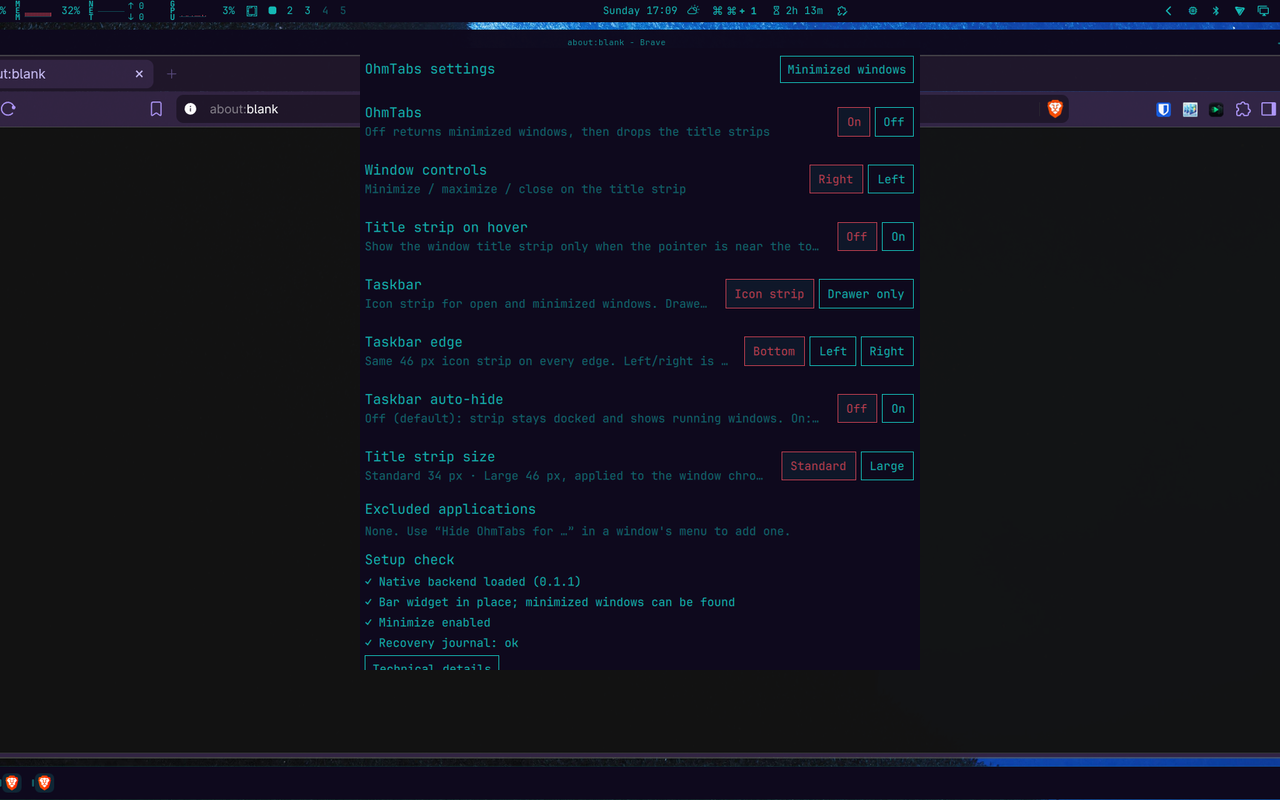
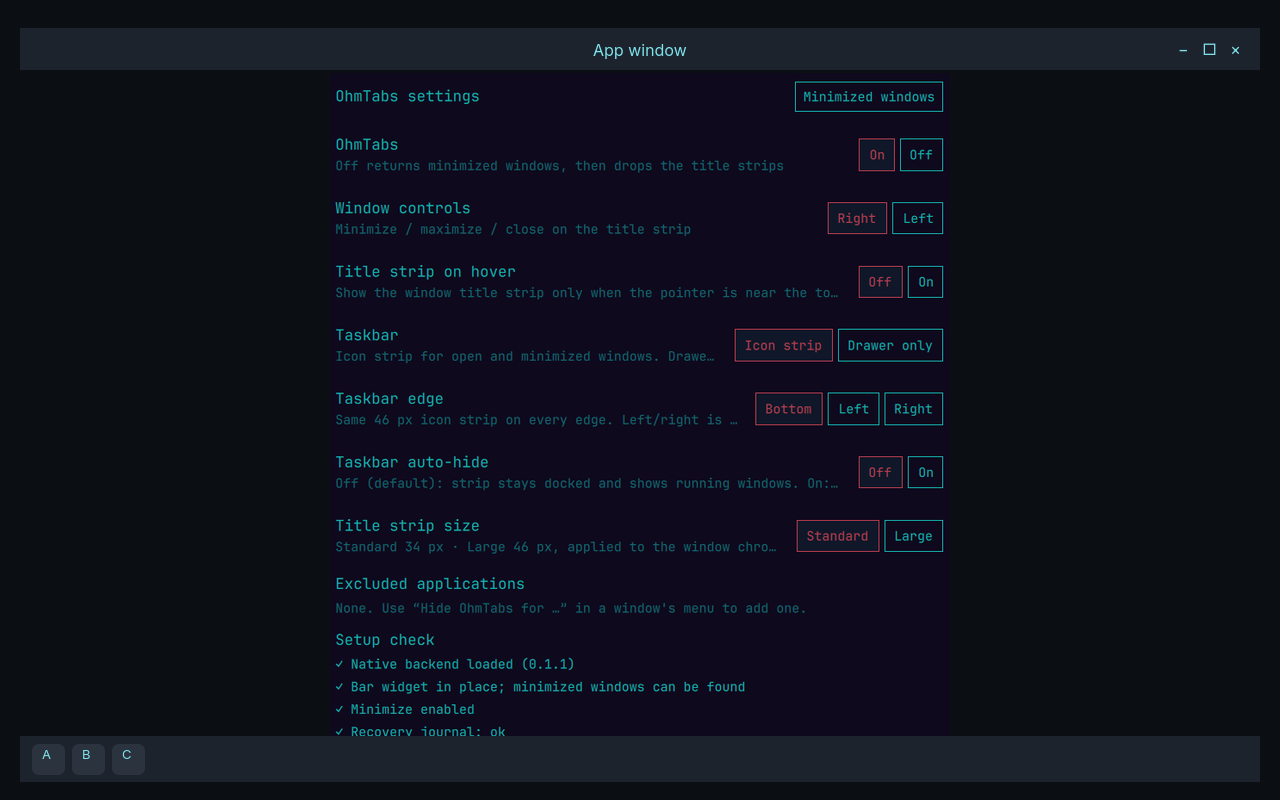
docs: drop live-desktop screenshots for synthetic gallery frames
The previous hero still showed wallpaper, the Omarchy stats bar,
and browser chrome. Replace those with plain diagrams (title strip,
settings panel, generic taskbar tiles) so nothing from the live
session is published.

Changed region(s): [[0.0, 0.0, 1.0, 0.5312], [0.0, 0.5625, 1.0, 1.0]]

diff --git a/README.md b/README.md
@@ -128,10 +128,10 @@ Hovering or clicking a button gives the panel keyboard focus:
 Live OhmTabs 0.1.1 on Omarchy 4 / Hyprland 0.56. The plugin-store card uses [`preview.png`](preview.png).
 
 <p align="center">
-  <img src="docs/screenshots/desktop.png" alt="OhmTabs title strip and 46px icon taskbar on a blank Brave window" width="100%">
+  <img src="docs/screenshots/desktop.png" alt="OhmTabs title strip and 46px icon taskbar" width="100%">
 </p>
 
-<p align="center"><sub>Title strip on the window · 46 px icon taskbar along the bottom (one icon per open or minimized window)</sub></p>
+<p align="center"><sub>Title strip (− □ ×) · 46 px icon taskbar. Gallery frames are diagrams — no live desktop.</sub></p>
 
 <p align="center">
   <img src="docs/screenshots/title-strip.png" alt="OhmTabs title strip: menu, title, minimize, maximize, close" width="100%">
